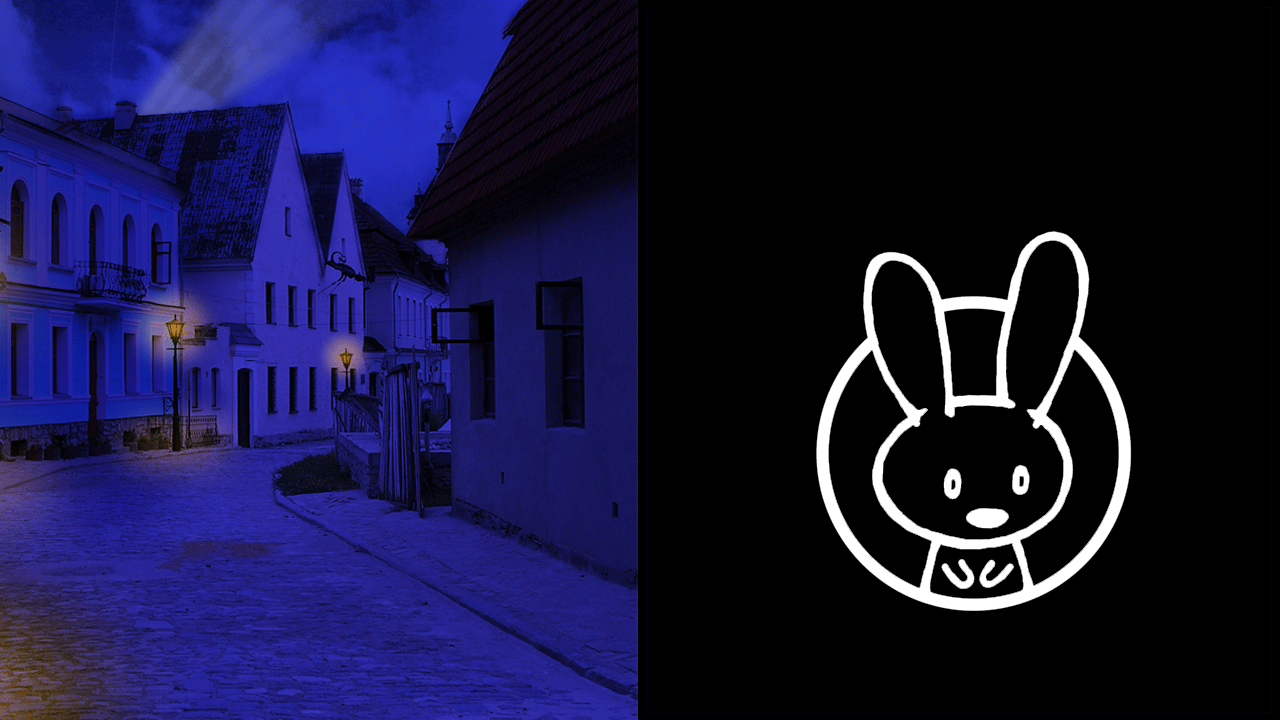
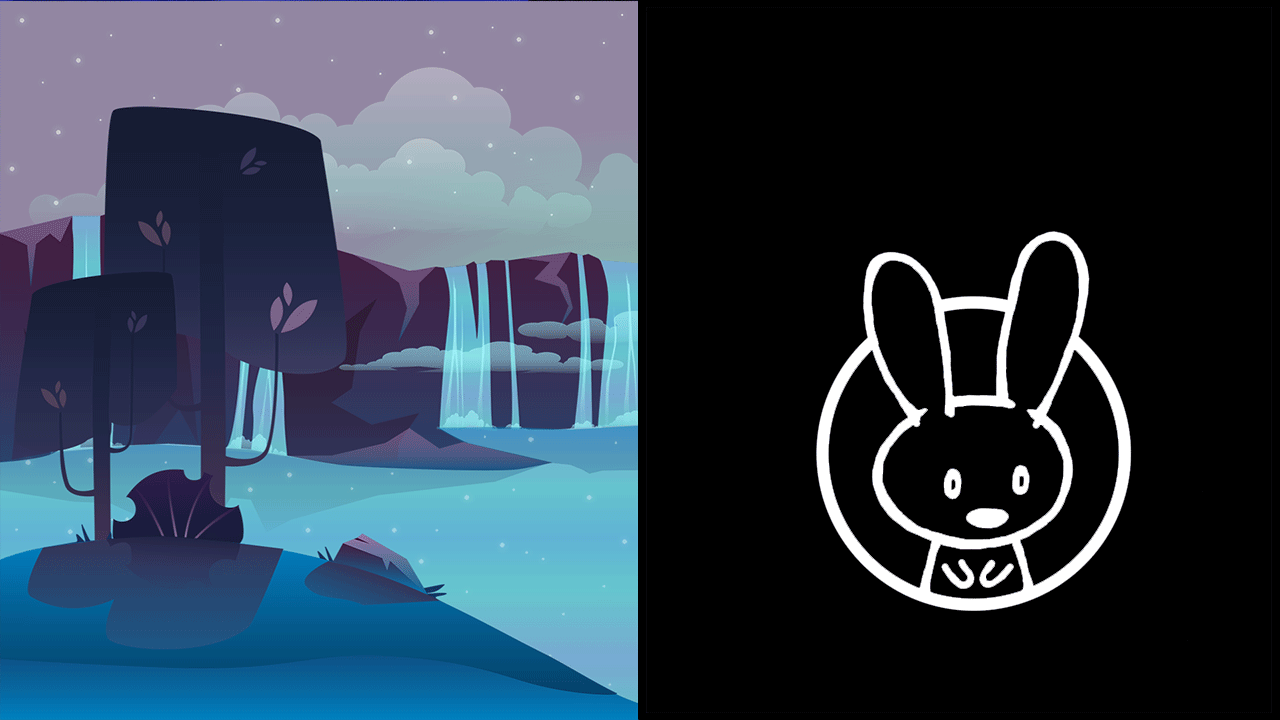
Scene transitions, asset updates.

diff --git a/last_bunny.py b/last_bunny.py
@@ -32,7 +32,7 @@ w, h = pygame.display.get_surface().get_size()
 #music
 music = ["Assets/Music/opening.mp3","Assets/Music/cutscene.mp3","Assets/Music/battle.mp3"]
 pygame.mixer.music.load(music[0])
-#pygame.mixer.music.play(-1)
+pygame.mixer.music.play(-1)
 
 #status bars
 status_player = pygame.image.load("Assets/InGame/status_bunny.png").convert_alpha()
@@ -195,11 +195,13 @@ def switch_scene(scene):
 	which_scene = scene
 	pygame.mixer.music.load(music[which_scene])
 	pygame.mixer.music.play(-1)
-	bg[which_scene].fade_in(screen,10.0) #redraw background
+	bg[which_scene].fade_in(screen,7.0) #redraw background
 
-	# if which_scene == 1:
-	# 	dark_overlay.fade_in(screen,5.0)
-	#black.fade_out(screen,5.0)		
+	if which_scene == 1:
+		dark_overlay.draw(screen,(0,0))
+		pygame.display.update()
+		pygame.time.delay(3000)
+			#black.fade_out(screen,5.0)		
 
 #update the screen with the new changes, this will be called at the end part of the game loop
 def update_screen():
